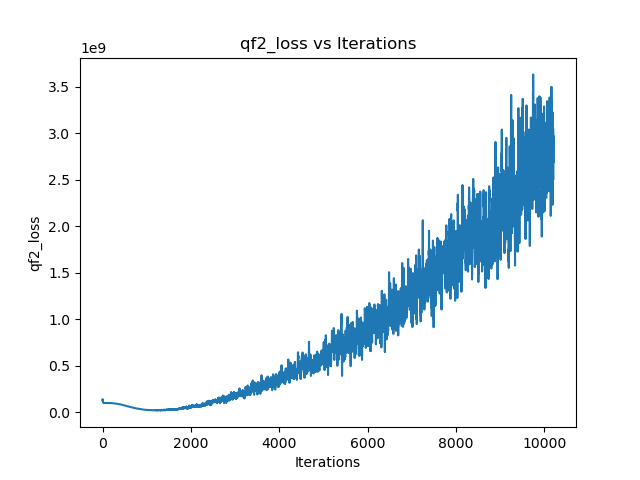
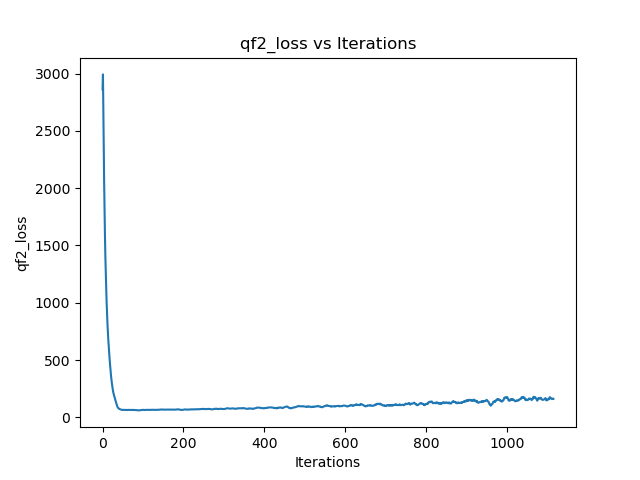
push

diff --git a/agent.py b/agent.py
@@ -51,20 +51,17 @@ class Agent:
 
         state_batch = th.FloatTensor(state_batch).to(self.device)
         action_batch = th.FloatTensor(action_batch).to(self.device)
-        reward_batch = th.FloatTensor(reward_batch).to(self.device)
+        reward_batch = th.FloatTensor(reward_batch).to(self.device).unsqueeze(1)
         next_state_batch = th.FloatTensor(next_state_batch).to(self.device)
-        mask_batch = th.FloatTensor(mask_batch).to(self.device)
+        mask_batch = th.FloatTensor(mask_batch).to(self.device).unsqueeze(1)
 
         with th.no_grad():
             next_action, next_log_pi = self.policy.sample(next_state_batch)
             qf1_next_target, qf2_next_target = self.critic_target(next_state_batch, next_action)
             min_qf_next_target = th.min(qf1_next_target, qf2_next_target) - self.alpha * next_log_pi
-            min_qf_next_target = min_qf_next_target.view(-1)
             next_q_value = reward_batch + self.gamma * (1-mask_batch) * min_qf_next_target
 
         qf1, qf2 = self.critic(state_batch, action_batch)
-        qf1 = qf1.view(-1)
-        qf2 = qf2.view(-1)
         qf1_loss = F.mse_loss(qf1, next_q_value)
         qf2_loss = F.mse_loss(qf2, next_q_value)
         qf_loss = qf1_loss + qf2_loss

diff --git a/UAV_gym_env.py b/UAV_gym_env.py
@@ -22,9 +22,9 @@ class UAVGymEnv(gym.Env):
         self.MissionGenerator = MissionGenerator(self._max_distance, self.np_random)
 
     def _setupActionSpace(self):
-        self._action_lim = np.array([1] * self._uav_number)
-        self._action_low = np.zeros_like(self._action_lim)
-        self.action_space = spaces.Box(self._action_low, self._action_lim, dtype=np.float32)
+        self._action_high = 1
+        self._action_low = 0
+        self.action_space = spaces.Box(low=self._action_low, high=self._action_high, shape=(self._uav_number,), dtype=np.float32)
 
     def _setupObservationSpace(self):
         self._obs_low = np.concatenate((np.array([0] * self._health_state_dim),

diff --git a/uav_n.py b/uav_n.py
@@ -5,10 +5,6 @@ class UAV:
 
     def __init__(self, uav_id: int):
         self.uav_id = uav_id
-        self.p_hover_dist = 0
-        self.hover_dist = 0
-        self.p_cruise_dist = 0
-        self.cruise_dist = 0
 
         self.hover_bearing_health = np.zeros(4)
         self.hover_bearing_factors = np.zeros(4)

diff --git a/networks.py b/networks.py
@@ -162,6 +162,6 @@ class DirichletPolicy(nn.Module):
         alpha = self.forward(state)
         dist = Dirichlet(alpha)
         actions = dist.rsample()
-        log_probs = dist.log_prob(actions).unsqueeze(0)
+        log_probs = dist.log_prob(actions).unsqueeze(1)
 
         return actions, log_probs

diff --git a/main.py b/main.py
@@ -27,7 +27,7 @@ agent = Agent(env=env,
             lr=0.0001,
             update_interval=1,
             auto_entropy=True,
-            policy="Dirichlet")
+            policy="Gaussian")
 
 # Memory
 memory = ReplayBuffer(capacity=1000000, seed=1234)

diff --git a/mission_n.py b/mission_n.py
@@ -4,6 +4,7 @@ import numpy as np
 import random
 
 class MissionGenerator:
+    
     def __init__(self, max_distance, np_random=None):
         self._max_distance = max_distance
         self._history = []
